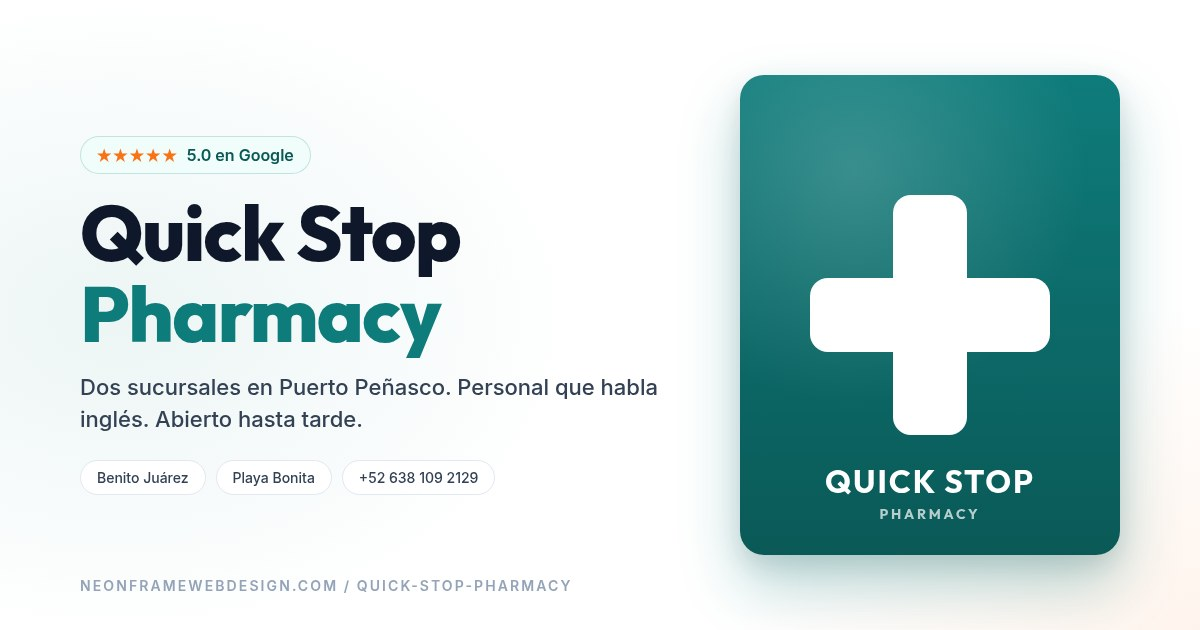
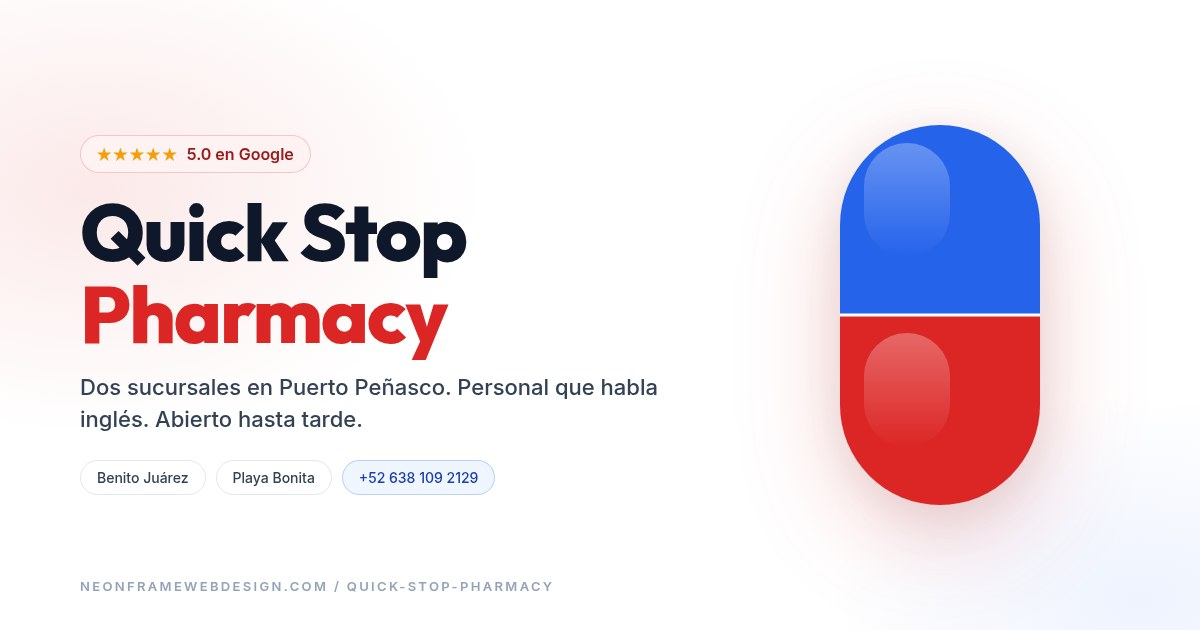
Re-palette to red/blue/white matching the Quick Stop brand
- Primary red (#DC2626) replaces deep teal as dominant brand color
- Blue (#2563EB) replaces orange as accent (on trust card numbers, late-hours badge)
- Pale red section tint replaces pale teal
- New capsule pill logo: blue top half + red bottom half (vertical), matches actual Quick Stop brand
- Favicon updated to match logo
- OG card rebuilt with red dominant palette and capsule visual on right
- Gold stars (#F59E0B) for ratings since blue stars would look weird
- Theme color updated to #DC2626

diff --git a/assets/og-card.html b/assets/og-card.html
@@ -11,28 +11,28 @@
   .card{
     width:1200px;height:630px;position:relative;
     background:
-      radial-gradient(ellipse 60% 80% at 10% 50%, rgba(14,124,123,0.08) 0%, transparent 65%),
-      radial-gradient(ellipse 60% 80% at 100% 100%, rgba(249,115,22,0.08) 0%, transparent 65%),
+      radial-gradient(ellipse 50% 60% at 8% 30%, rgba(220,38,38,0.10) 0%, transparent 65%),
+      radial-gradient(ellipse 40% 50% at 95% 95%, rgba(37,99,235,0.08) 0%, transparent 65%),
       #fff;
-    display:grid;grid-template-columns: 1fr 380px;gap:60px;
+    display:grid;grid-template-columns: 1fr 360px;gap:70px;
     padding: 70px 80px;
     align-items:center;
   }
   .text{display:flex;flex-direction:column;gap:18px}
   .rating-pill{
     display:inline-flex;align-items:center;gap:8px;
-    background:#F0FDFA;color:#0A5957;
+    background:#FEF2F2;color:#991B1B;
     padding:8px 16px;border-radius:999px;font-size:16px;font-weight:600;
-    border:1px solid rgba(14,124,123,0.2);
+    border:1px solid rgba(220,38,38,0.22);
     width:fit-content;
   }
-  .stars{color:#F97316;letter-spacing:2px}
+  .stars{color:#F59E0B;letter-spacing:2px}
   .h1{
     font-family:'Outfit',sans-serif;font-weight:800;
-    font-size:78px;line-height:1.04;letter-spacing:-0.02em;
+    font-size:80px;line-height:1.02;letter-spacing:-0.025em;
     color:#0F172A;
   }
-  .accent{color:#0E7C7B}
+  .accent{color:#DC2626}
   .sub{
     font-size:22px;color:#334155;line-height:1.45;max-width:600px;
   }
@@ -40,44 +40,48 @@
   .tag{
     background:#fff;color:#334155;
     padding:8px 16px;border-radius:999px;font-size:14px;font-weight:500;
-    border:1px solid #E2E8F0;
+    border:1px solid #E5E7EB;
   }
+  .tag.tag-blue { background:#EFF6FF; color:#1E40AF; border-color: rgba(37,99,235,0.25); }
+
+  /* Capsule visual */
   .visual{
     position:relative;
-    width:380px;height:480px;
-    background:linear-gradient(180deg, #0E7C7B 0%, #0A5957 100%);
-    border-radius:24px;
-    box-shadow: 0 30px 60px rgba(14,124,123,0.30), 0 10px 24px rgba(0,0,0,0.10);
+    width:360px;height:480px;
     display:flex;align-items:center;justify-content:center;
-    overflow:hidden;
   }
-  .visual::before{
-    content:"";position:absolute;inset:0;
-    background: radial-gradient(circle at 30% 20%, rgba(255,255,255,0.18) 0%, transparent 50%);
-  }
-  .cross{
+  .capsule{
     position:relative;
-    width:240px;height:240px;
-    display:flex;align-items:center;justify-content:center;
+    width:200px;height:380px;
+    filter: drop-shadow(0 30px 50px rgba(220,38,38,0.22)) drop-shadow(0 10px 20px rgba(0,0,0,0.08));
   }
-  .cross::before, .cross::after{
-    content:"";position:absolute;background:#fff;border-radius:18px;
+  .capsule .top{
+    position:absolute;top:0;left:0;right:0;height:50%;
+    background:#2563EB;
+    border-radius: 100px 100px 0 0;
   }
-  .cross::before{width:240px;height:74px}
-  .cross::after{width:74px;height:240px}
-  .qs{
-    position:absolute;
-    bottom:32px;left:0;right:0;text-align:center;
-    color:#fff;font-family:'Outfit',sans-serif;
-    font-weight:700;font-size:32px;letter-spacing:0.06em;
+  .capsule .bot{
+    position:absolute;bottom:0;left:0;right:0;height:50%;
+    background:#DC2626;
+    border-radius: 0 0 100px 100px;
   }
-  .qs-tag{
-    display:block;font-size:14px;color:rgba(255,255,255,0.7);letter-spacing:0.2em;margin-top:4px;font-weight:500;
+  .capsule .seam{
+    position:absolute;top:50%;left:0;right:0;height:3px;
+    background: #fff;
+    transform: translateY(-50%);
   }
+  /* subtle inner highlight */
+  .capsule .top::before, .capsule .bot::before {
+    content:""; position:absolute; top:18px; left:24px; right:90px; height:60%;
+    background:linear-gradient(180deg, rgba(255,255,255,0.30) 0%, rgba(255,255,255,0) 100%);
+    border-radius: 60px;
+    pointer-events:none;
+  }
+
   .url{
     position:absolute;bottom:36px;left:80px;
-    font-size:14px;font-weight:600;
-    color:#94A3B8;letter-spacing:0.15em;text-transform:uppercase;
+    font-size:13px;font-weight:600;
+    color:#94A3B8;letter-spacing:0.18em;text-transform:uppercase;
   }
 </style>
 </head>
@@ -93,14 +97,14 @@
     <div class="tags">
       <span class="tag">Benito Ju&aacute;rez</span>
       <span class="tag">Playa Bonita</span>
-      <span class="tag">+52 638 109 2129</span>
+      <span class="tag tag-blue">+52 638 109 2129</span>
     </div>
   </div>
   <div class="visual">
-    <div class="cross"></div>
-    <div class="qs">
-      QUICK STOP
-      <span class="qs-tag">PHARMACY</span>
+    <div class="capsule">
+      <div class="top"></div>
+      <div class="bot"></div>
+      <div class="seam"></div>
     </div>
   </div>
   <div class="url">neonframewebdesign.com / quick-stop-pharmacy</div>

diff --git a/css/style.css b/css/style.css
@@ -5,18 +5,18 @@
 /* ── Variables ───────────────────────────────────────────────── */
 :root {
   --bg: #ffffff;
-  --bg-alt: #F8FAFC;
-  --bg-tint: #F0FDFA;
-  --primary: #0E7C7B;
-  --primary-dark: #0A5957;
-  --primary-soft: rgba(14, 124, 123, 0.08);
-  --accent: #F97316;
-  --accent-dark: #C2410C;
+  --bg-alt: #FAFAFA;
+  --bg-tint: #FEF2F2;
+  --primary: #DC2626;
+  --primary-dark: #991B1B;
+  --primary-soft: rgba(220, 38, 38, 0.08);
+  --accent: #2563EB;
+  --accent-dark: #1E40AF;
   --text: #0F172A;
   --text-light: #334155;
   --muted: #64748B;
-  --border: #E2E8F0;
-  --border-soft: #F1F5F9;
+  --border: #E5E7EB;
+  --border-soft: #F3F4F6;
   --shadow-sm: 0 1px 2px rgba(15, 23, 42, 0.05);
   --shadow-md: 0 4px 12px rgba(15, 23, 42, 0.06);
   --shadow-lg: 0 12px 32px rgba(15, 23, 42, 0.10);
@@ -160,8 +160,8 @@ section { scroll-margin-top: var(--nav-h); }
 /* ── Hero ────────────────────────────────────────────────────── */
 .hero {
   background:
-    radial-gradient(ellipse 80% 60% at 50% 0%, rgba(14, 124, 123, 0.07) 0%, transparent 60%),
-    radial-gradient(ellipse 50% 40% at 85% 30%, rgba(249, 115, 22, 0.06) 0%, transparent 60%),
+    radial-gradient(ellipse 80% 60% at 50% 0%, rgba(220, 38, 38, 0.07) 0%, transparent 60%),
+    radial-gradient(ellipse 50% 40% at 85% 30%, rgba(37, 99, 235, 0.05) 0%, transparent 60%),
     #fff;
   padding: clamp(3rem, 7vw, 5rem) var(--edge) clamp(4rem, 8vw, 6rem);
 }
@@ -176,9 +176,9 @@ section { scroll-margin-top: var(--nav-h); }
   font-size: 0.84rem;
   font-weight: 600;
   margin-bottom: 1.5rem;
-  border: 1px solid rgba(14, 124, 123, 0.18);
+  border: 1px solid rgba(220, 38, 38, 0.18);
 }
-.stars { color: var(--accent); letter-spacing: 1px; font-size: 0.9rem; }
+.stars { color: #F59E0B; letter-spacing: 1px; font-size: 0.9rem; }
 
 .hero-h1 {
   font-family: var(--font-display);
@@ -212,10 +212,10 @@ section { scroll-margin-top: var(--nav-h); }
   font-size: 1rem;
   letter-spacing: -0.005em;
   transition: background 0.2s ease, transform 0.15s ease, box-shadow 0.2s ease;
-  box-shadow: 0 6px 20px rgba(14, 124, 123, 0.25);
+  box-shadow: 0 6px 20px rgba(220, 38, 38, 0.22);
   display: inline-block;
 }
-.btn-primary:hover { background: var(--primary-dark); transform: translateY(-2px); box-shadow: 0 10px 28px rgba(14, 124, 123, 0.32); }
+.btn-primary:hover { background: var(--primary-dark); transform: translateY(-2px); box-shadow: 0 10px 28px rgba(220, 38, 38, 0.30); }
 
 .btn-ghost {
   background: transparent;
@@ -292,7 +292,7 @@ section { scroll-margin-top: var(--nav-h); }
 .product-card:hover {
   transform: translateY(-3px);
   box-shadow: var(--shadow-md);
-  border-color: rgba(14, 124, 123, 0.3);
+  border-color: rgba(220, 38, 38, 0.32);
 }
 .product-icon {
   width: 44px; height: 44px;
@@ -388,7 +388,7 @@ section { scroll-margin-top: var(--nav-h); }
 .location-card:hover { transform: translateY(-2px); box-shadow: var(--shadow-md); }
 .location-card.featured {
   border-color: var(--primary);
-  background: linear-gradient(180deg, rgba(14, 124, 123, 0.03) 0%, #fff 40%);
+  background: linear-gradient(180deg, rgba(220, 38, 38, 0.04) 0%, #fff 40%);
 }
 .location-badge {
   position: absolute;

diff --git a/index.html b/index.html
@@ -21,7 +21,7 @@
   <meta name="twitter:image" content="https://neonframewebdev.github.io/quick-stop-pharmacy/assets/og-card.jpg" />
 
   <link rel="canonical" href="https://neonframewebdev.github.io/quick-stop-pharmacy/" />
-  <meta name="theme-color" content="#0E7C7B" />
+  <meta name="theme-color" content="#DC2626" />
 
   <!-- Structured data: Pharmacy schema for both locations -->
   <script type="application/ld+json">
@@ -88,12 +88,10 @@
   <!-- Nav -->
   <nav class="nav" aria-label="Navegaci&oacute;n principal">
     <a href="#top" class="nav-logo" aria-label="Quick Stop Pharmacy">
-      <svg class="nav-logo-svg" viewBox="0 0 48 48" fill="none" xmlns="http://www.w3.org/2000/svg" aria-hidden="true">
-        <rect x="6" y="14" width="36" height="28" rx="4" fill="#0E7C7B"/>
-        <rect x="11" y="22" width="4" height="12" rx="1" fill="#fff"/>
-        <rect x="22" y="22" width="4" height="12" rx="1" fill="#fff"/>
-        <path d="M28 22h4l4 12h-4l-1-3h-3l-1 3h-4z" fill="#fff"/>
-        <rect x="14" y="8" width="20" height="6" rx="2" fill="#F97316"/>
+      <svg class="nav-logo-svg" viewBox="0 0 48 48" xmlns="http://www.w3.org/2000/svg" aria-hidden="true">
+        <path d="M14 24 V14 a10 10 0 0 1 20 0 V24 Z" fill="#2563EB"/>
+        <path d="M14 24 V34 a10 10 0 0 0 20 0 V24 Z" fill="#DC2626"/>
+        <rect x="14" y="23" width="20" height="2" fill="#fff"/>
       </svg>
       <span class="nav-name">Quick Stop <span class="nav-name-light">Pharmacy</span></span>
     </a>
@@ -408,12 +406,10 @@
   <footer class="footer">
     <div class="footer-inner">
       <div class="footer-brand">
-        <svg class="footer-logo-svg" viewBox="0 0 48 48" fill="none" xmlns="http://www.w3.org/2000/svg" aria-hidden="true">
-          <rect x="6" y="14" width="36" height="28" rx="4" fill="#0E7C7B"/>
-          <rect x="11" y="22" width="4" height="12" rx="1" fill="#fff"/>
-          <rect x="22" y="22" width="4" height="12" rx="1" fill="#fff"/>
-          <path d="M28 22h4l4 12h-4l-1-3h-3l-1 3h-4z" fill="#fff"/>
-          <rect x="14" y="8" width="20" height="6" rx="2" fill="#F97316"/>
+        <svg class="footer-logo-svg" viewBox="0 0 48 48" xmlns="http://www.w3.org/2000/svg" aria-hidden="true">
+          <path d="M14 24 V14 a10 10 0 0 1 20 0 V24 Z" fill="#2563EB"/>
+          <path d="M14 24 V34 a10 10 0 0 0 20 0 V24 Z" fill="#DC2626"/>
+          <rect x="14" y="23" width="20" height="2" fill="#fff"/>
         </svg>
         <p class="footer-name">Quick Stop Pharmacy</p>
         <p class="footer-copy">
